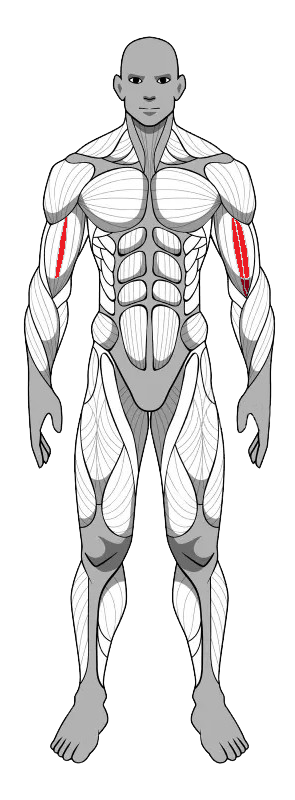
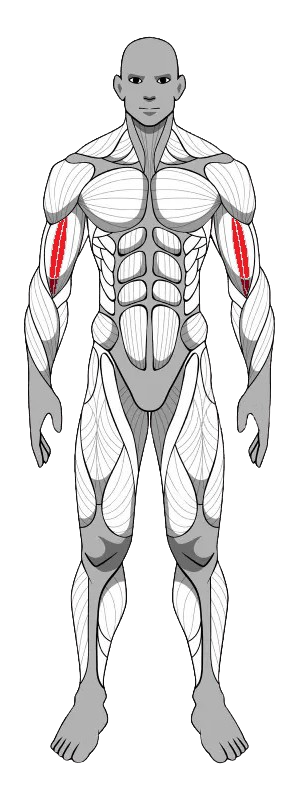
Músculos destacados feitos em sala

diff --git a/Site/index.html b/Site/index.html
@@ -81,6 +81,9 @@
             <img id="peito_inf" style="height: 90%; width: 70%; display: none;" src="img/peitoral_inferior.png" alt="">
             <img id="deltoide_ant" style="height: 90%; width: 70%; display: none;" src="img/deltoide_anterior.png" alt="">
             <img id="deltoide_lat" style="height: 90%; width: 70%; display: none;" src="img/deltoide_lateral.png" alt="">
+            <img id="biceps_longa" style="height: 90%; width: 70%; display: none;" src="img/biceps_longa.png" alt="">
+            <img id="biceps_curta" style="height: 90%; width: 70%; display: none;" src="img/biceps_curta.png" alt="">
+            <img id="braquial" style="height: 90%; width: 70%; display: none;" src="img/braquial.png" alt="">
         </div>
 
         <div id="corpo_tras" class="corpo_tras_off">
@@ -129,24 +132,30 @@
 </html>
 
 <script>
+    const corpo_frente = document.getElementById('corpo_frente');
+    const corpo_tras = document.getElementById('corpo_tras');
+    const form_frente_sup = document.getElementById('form_frente_sup');
+    const form_tras_sup = document.getElementById('form_tras_sup');
+    const form_frente_inf = document.getElementById('form_frente_inf');
+    const form_tras_inf = document.getElementById('form_tras_inf');
+    const musculo_destaque = document.getElementById('musculo_destaque');
+    const peito_sup = document.getElementById('peito_sup');
+    const peito_med = document.getElementById('peito_med');
+    const peito_inf = document.getElementById('peito_inf');
+    const deltoide_ant = document.getElementById('deltoide_ant');
+    const deltoide_lat = document.getElementById('deltoide_lat');
+    const biceps_longa = document.getElementById('biceps_longa');
+    const biceps_curta = document.getElementById('biceps_curta');
+    const braquial = document.getElementById('braquial');
+
 
     function virar() {
 
-        const corpo_frente = document.getElementById('corpo_frente');
-        const corpo_tras = document.getElementById('corpo_tras');
-        const form_frente_sup = document.getElementById('form_frente_sup');
-        const form_tras_sup = document.getElementById('form_tras_sup');
-        const form_frente_inf = document.getElementById('form_frente_inf');
-        const form_tras_inf = document.getElementById('form_tras_inf');
-        const musculo_destaque = document.getElementById('musculo_destaque');
-        const peito_sup = document.getElementById('peito_sup');
-        const peito_med = document.getElementById('peito_med');
-        const peito_inf = document.getElementById('peito_inf');
-        const deltoide_ant = document.getElementById('deltoide_ant');
-        const deltoide_lat = document.getElementById('deltoide_lat');
 
-        if (corpo_frente.className == 'corpo_frente_on') {
+        if (corpo_frente.className == 'corpo_frente_on' || musculo_destaque.className == 'musculo_detaque_on') {
 
+            musculo_destaque.classList.add('musculo_destaque_off');
+            musculo_destaque.classList.remove('musculo_destaque_on');
             corpo_frente.classList.remove('corpo_frente_on');
             corpo_frente.classList.add('corpo_frente_off');
             corpo_tras.classList.remove('corpo_tras_off');
@@ -156,18 +165,24 @@
             form_tras_sup.style.display = 'flex';
             form_frente_inf.style.display = 'none';
             form_tras_inf.style.display = 'flex';
+            // musculo_destaque.style.display = 'none';
 
-        } else if (corpo_tras.className == 'corpo_tras_on') {
+        } else if (corpo_tras.className == 'corpo_tras_on' || musculo_destaque.className == 'musculo_destaque_on') {
 
+            musculo_destaque.classList.add('musculo_destaque_off');
+            musculo_destaque.classList.remove('musculo_destaque_on');
             corpo_frente.classList.add('corpo_frente_on');
             corpo_frente.classList.remove('corpo_frente_off');
             corpo_tras.classList.add('corpo_tras_off');
             corpo_tras.classList.remove('corpo_tras_on');
-
+            
             form_frente_sup.style.display = 'flex';
             form_tras_sup.style.display = 'none';
             form_frente_inf.style.display = 'flex';
             form_tras_inf.style.display = 'none';
+            // musculo_destaque.style.display = 'none';
+        } else{
+            corpo_frente.classList.add('corpo_frente_on');
         }
 
     }
@@ -187,6 +202,9 @@
             corpo_frente.classList.add('corpo_frente_off');
             musculo_destaque.classList.remove('musculo_destaque_off');
             musculo_destaque.classList.add('musculo_destaque_on');
+            braquial.style.display = 'none';
+            biceps_curta.style.display = 'none';
+            biceps_longa.style.display = 'none';
             deltoide_lat.style.display = 'none';
             deltoide_ant.style.display = 'none';
             peito_med.style.display = 'none';
@@ -197,6 +215,9 @@
             corpo_frente.classList.add('corpo_frente_off');
             musculo_destaque.classList.remove('musculo_destaque_off');
             musculo_destaque.classList.add('musculo_destaque_on');
+            braquial.style.display = 'none';
+            biceps_curta.style.display = 'none';
+            biceps_longa.style.display = 'none';
             deltoide_lat.style.display = 'none';
             deltoide_ant.style.display = 'none';
             peito_sup.style.display = 'none';
@@ -207,6 +228,9 @@
             corpo_frente.classList.add('corpo_frente_off');
             musculo_destaque.classList.remove('musculo_destaque_off');
             musculo_destaque.classList.add('musculo_destaque_on');
+            braquial.style.display = 'none';
+            biceps_curta.style.display = 'none';
+            biceps_longa.style.display = 'none';
             deltoide_lat.style.display = 'none';
             deltoide_ant.style.display = 'none';
             peito_sup.style.display = 'none';
@@ -217,6 +241,9 @@
             corpo_frente.classList.add('corpo_frente_off');
             musculo_destaque.classList.remove('musculo_destaque_off');
             musculo_destaque.classList.add('musculo_destaque_on');
+            braquial.style.display = 'none';
+            biceps_curta.style.display = 'none';
+            biceps_longa.style.display = 'none';
             deltoide_lat.style.display = 'none';
             peito_sup.style.display = 'none';
             peito_med.style.display = 'none';
@@ -227,11 +254,53 @@
             corpo_frente.classList.add('corpo_frente_off');
             musculo_destaque.classList.remove('musculo_destaque_off');
             musculo_destaque.classList.add('musculo_destaque_on');
+            braquial.style.display = 'none';
+            biceps_curta.style.display = 'none';
+            biceps_longa.style.display = 'none'; 
             peito_sup.style.display = 'none';
             peito_med.style.display = 'none';
             peito_inf.style.display = 'none';
             deltoide_ant.style.display = 'none';
             deltoide_lat.style.display = 'flex';
+        } else if(musculo_frente_sup == 'Bíceps Cabeça Longa'){
+            corpo_frente.classList.remove('corpo_frente_on');
+            corpo_frente.classList.add('corpo_frente_off');
+            musculo_destaque.classList.remove('musculo_destaque_off');
+            musculo_destaque.classList.add('musculo_destaque_on');
+            braquial.style.display = 'none';
+            biceps_curta.style.display = 'none';
+            peito_sup.style.display = 'none';
+            peito_med.style.display = 'none';
+            peito_inf.style.display = 'none';
+            deltoide_ant.style.display = 'none';
+            deltoide_lat.style.display = 'none';
+            biceps_longa.style.display = 'flex'; 
+        } else if(musculo_frente_sup == 'Bíceps Cabeça Curta'){
+            corpo_frente.classList.remove('corpo_frente_on');
+            corpo_frente.classList.add('corpo_frente_off');
+            musculo_destaque.classList.remove('musculo_destaque_off');
+            musculo_destaque.classList.add('musculo_destaque_on');
+            braquial.style.display = 'none';
+            peito_sup.style.display = 'none';
+            peito_med.style.display = 'none';
+            peito_inf.style.display = 'none';
+            deltoide_ant.style.display = 'none';
+            deltoide_lat.style.display = 'none';
+            biceps_longa.style.display = 'none';
+            biceps_curta.style.display = 'flex';
+        } else if(musculo_frente_sup == 'Braquial'){
+            corpo_frente.classList.remove('corpo_frente_on');
+            corpo_frente.classList.add('corpo_frente_off');
+            musculo_destaque.classList.remove('musculo_destaque_off');
+            musculo_destaque.classList.add('musculo_destaque_on');
+            peito_sup.style.display = 'none';
+            peito_med.style.display = 'none';
+            peito_inf.style.display = 'none';
+            deltoide_ant.style.display = 'none';
+            deltoide_lat.style.display = 'none';
+            biceps_longa.style.display = 'none';
+            biceps_curta.style.display = 'none';
+            braquial.style.display = 'flex';
         }
     }
 
